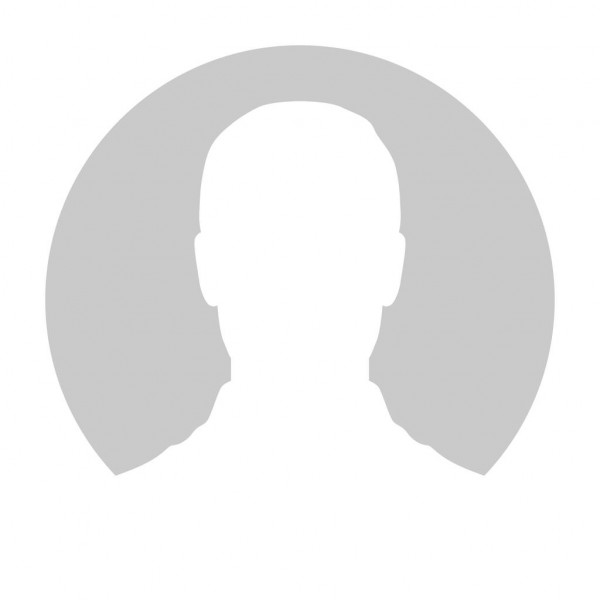
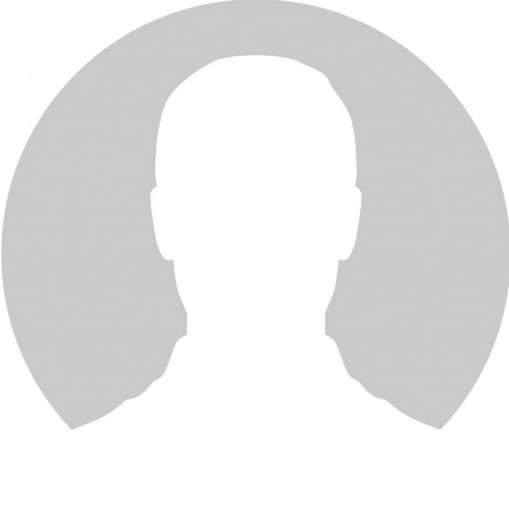
routing added

Changed region(s): [[0.0, 0.0, 1.0, 0.8563], [0.3242, 0.6791, 0.3536, 0.7087]]

diff --git a/src/components/Sidebar.js b/src/components/Sidebar.js
@@ -5,33 +5,36 @@ import {
   IoPeopleSharp,
 } from "react-icons/io5";
 import { RiDashboardFill } from "react-icons/ri";
+import { Link } from "react-router-dom";
 import "../styles/Sidebar.css";
 
 const Sidebar = () => {
   return (
     <div className="Sidebar">
-      <h1 className="Logo">Logo</h1>
+      <Link to="/">
+        <h1 className="logo">Logo</h1>
+      </Link>
       <div className="sidebar-items">
-        <div>
+        <Link to="/">
           <IoHomeSharp />
           <h3>Home</h3>
-        </div>
-        <div>
+        </Link>
+        <Link to="/dashboard">
           <RiDashboardFill />
           <h3>Dashboard</h3>
-        </div>
-        <div>
+        </Link>
+        <Link to="/courses">
           <IoBookSharp />
           <h3>My Courses</h3>
-        </div>
-        <div>
+        </Link>
+        <Link to="/achievements">
           <IoTrophySharp />
           <h3>Achievements</h3>
-        </div>
-        <div>
+        </Link>
+        <Link to="/forum">
           <IoPeopleSharp />
           <h3>Forum</h3>
-        </div>
+        </Link>
       </div>
     </div>
   );

diff --git a/src/App.js b/src/App.js
@@ -1,12 +1,27 @@
+import { BrowserRouter as Router, Switch, Route } from "react-router-dom";
 import Navbar from "./components/Navbar";
 import Sidebar from "./components/Sidebar";
+import Home from "./pages/Home";
+import Dashboard from "./pages/Dashboard";
+import Courses from "./pages/Courses";
+import Achievements from "./pages/Achievements";
+import Forum from "./pages/Forum";
+import ErrorPage from "./pages/ErrorPage";
 
 const App = () => {
   return (
-    <div>
+    <Router>
       <Navbar />
       <Sidebar />
-    </div>
+      <Switch>
+        <Route exact path="/" component={Home} />
+        <Route path="/dashboard" component={Dashboard} />
+        <Route path="/courses" component={Courses} />
+        <Route path="/achievements" component={Achievements} />
+        <Route path="/forum" component={Forum} />
+        <Route path="*" component={ErrorPage} />
+      </Switch>
+    </Router>
   );
 };
 

diff --git a/src/pages/ErrorPage.js b/src/pages/ErrorPage.js
@@ -1,0 +1,24 @@
+import { useHistory } from "react-router-dom";
+import "../styles/ErrorPage.css";
+
+const ErrorPage = () => {
+  const history = useHistory();
+  return (
+    <div className="ErrorPage">
+      <h1>404</h1>
+      <p>This page could not be found!</p>
+      <p>
+        Go back to&nbsp;
+        <span
+          className="home-redirect-button"
+          onClick={() => history.push("/")}
+        >
+          home page
+        </span>
+        .
+      </p>
+    </div>
+  );
+};
+
+export default ErrorPage;

diff --git a/src/styles/Sidebar.css b/src/styles/Sidebar.css
@@ -9,11 +9,15 @@
   padding: 20px;
 }
 
+.logo {
+  color: #fff;
+}
+
 .sidebar-items {
   margin-top: 50px;
 }
 
-.sidebar-items div {
+.sidebar-items a {
   display: flex;
   justify-content: flex-start;
   align-items: center;
@@ -24,10 +28,12 @@
   margin-top: 2px;
   margin-right: 20px;
   font-size: 25px;
+  color: #fff;
 }
 
 .sidebar-items h3 {
   font-weight: 500;
   font-size: 20px;
   cursor: pointer;
+  color: #fff;
 }

diff --git a/src/components/Navbar.js b/src/components/Navbar.js
@@ -8,7 +8,7 @@ const Navbar = () => {
       <div className="user-details">
         <p>username</p>
         <div className="user-profile">
-          <img src="/no-profile-2.jpg" alt="profile" />
+          <img src="/no-profile.jpg" alt="profile" />
         </div>
         <IoChevronDownOutline />
       </div>

diff --git a/src/styles/ErrorPage.css b/src/styles/ErrorPage.css
@@ -1,0 +1,15 @@
+.ErrorPage {
+  display: grid;
+  place-items: center;
+  margin-top: 100px;
+}
+
+p {
+  margin-top: 10px;
+}
+
+.home-redirect-button {
+  color: slateblue;
+  text-decoration: underline;
+  cursor: pointer;
+}

diff --git a/src/pages/Achievements.js b/src/pages/Achievements.js
@@ -1,0 +1,9 @@
+const Achievements = () => {
+  return (
+    <div style={{ display: "grid", placeItems: "center", marginTop: 100 }}>
+      Achievements Page
+    </div>
+  );
+};
+
+export default Achievements;

diff --git a/src/pages/Dashboard.js b/src/pages/Dashboard.js
@@ -1,0 +1,9 @@
+const Dashboard = () => {
+  return (
+    <div style={{ display: "grid", placeItems: "center", marginTop: 100 }}>
+      Dashboard Page
+    </div>
+  );
+};
+
+export default Dashboard;

diff --git a/src/index.css b/src/index.css
@@ -5,3 +5,7 @@
   font-family: -apple-system, BlinkMacSystemFont, "Segoe UI", Roboto, Oxygen,
     Ubuntu, Cantarell, "Open Sans", "Helvetica Neue", sans-serif;
 }
+
+a {
+  text-decoration: none;
+}

diff --git a/src/pages/Home.js b/src/pages/Home.js
@@ -1,0 +1,9 @@
+const Home = () => {
+  return (
+    <div style={{ display: "grid", placeItems: "center", marginTop: 100 }}>
+      Home Page
+    </div>
+  );
+};
+
+export default Home;

diff --git a/src/pages/Courses.js b/src/pages/Courses.js
@@ -1,0 +1,7 @@
+const Courses = () => {
+  return (
+    <div style={{ display: "grid", placeItems: "center", marginTop: 100  }}>Courses Page</div>
+  );
+};
+
+export default Courses;

diff --git a/src/pages/Forum.js b/src/pages/Forum.js
@@ -1,0 +1,7 @@
+const Forum = () => {
+  return (
+    <div style={{ display: "grid", placeItems: "center", marginTop: 100  }}>Forum Page</div>
+  );
+};
+
+export default Forum;
